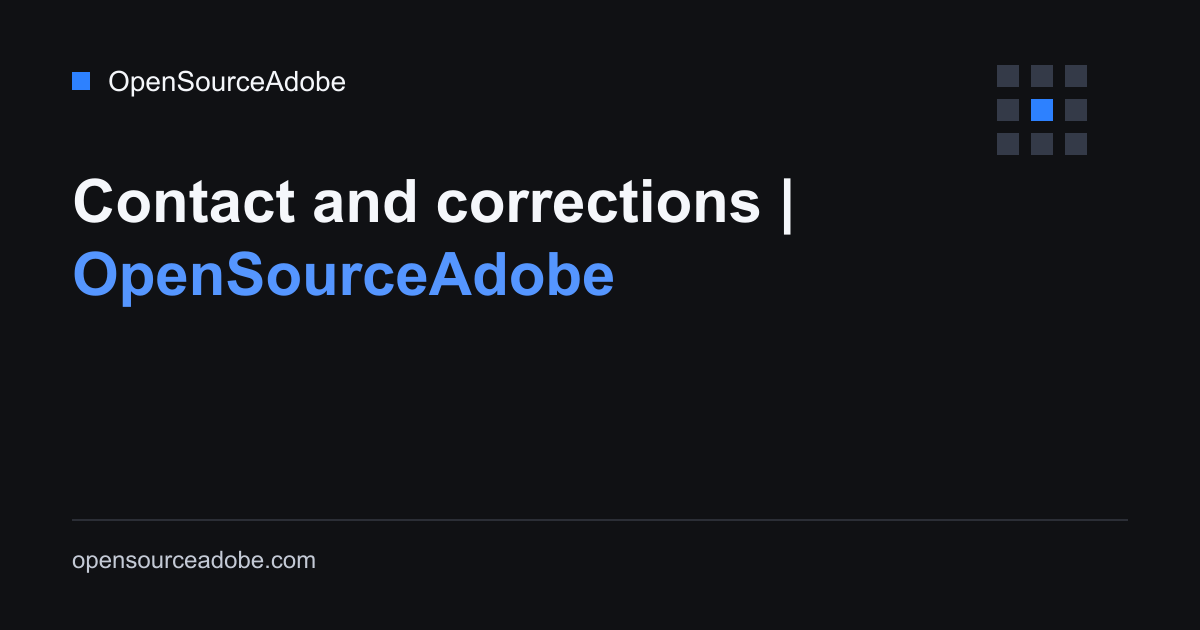
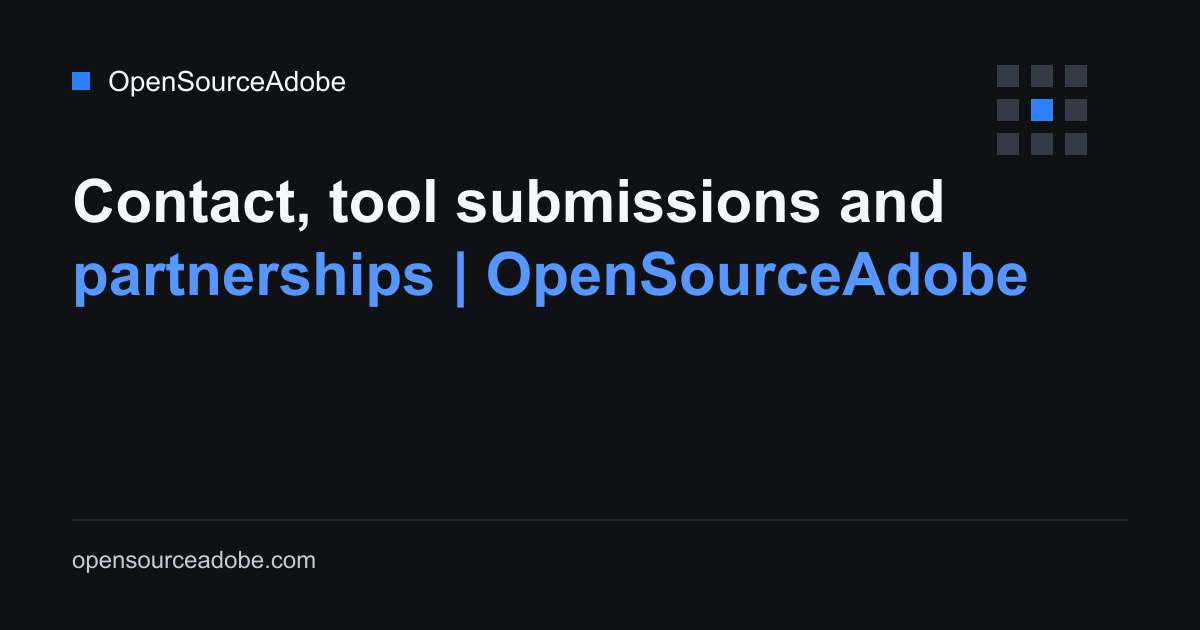
Add business and support contact addresses with tool submission template

Changed region(s): [[0.0617, 0.3921, 0.8633, 0.4825], [0.2467, 0.2714, 0.8017, 0.3619]]

diff --git a/src/app/(en)/contact/page.tsx b/src/app/(en)/contact/page.tsx
@@ -1,14 +1,16 @@
 import { PageUpdated } from "@/components/page-updated";
 import type { Metadata } from "next";
 import { Breadcrumbs } from "@/components/breadcrumbs";
+import { ContactEmailLink } from "@/components/contact-email-link";
 import { EditorialSourceNote } from "@/components/editorial-source-note";
 import { Eyebrow } from "@/components/eyebrow";
+import { contactLinks, toolSubmissionTemplate } from "@/content/contact";
 import { pageMetadata } from "@/lib/metadata";
 import { siteConfig } from "@/lib/site";
 
 export const metadata: Metadata = pageMetadata({
-  title: "Contact and corrections",
-  description: "Email OpenSourceAdobe to report a correction, suggest a primary source, ask an attribution question or share feedback about the site.",
+  title: "Contact, tool submissions and partnerships",
+  description: "Submit a creative tool for consideration, discuss sponsorships and partnerships, or contact OpenSourceAdobe for website support and corrections.",
   path: "/contact/",
 });
 
@@ -17,20 +19,41 @@ export default function ContactPage() {
     <div className="container page-shell page-shell--read">
       <Breadcrumbs currentPath="/contact/" items={[{ label: "Home", href: "/" }, { label: "Contact" }]} />
       <header className="page-intro">
-        <Eyebrow>Contact · corrections first</Eyebrow>
-        <h1>Get in touch.<br /><span>Help keep this guide accurate.</span></h1>
-        <p className="lede">Email us with corrections, source suggestions, attribution questions or feedback about the site.</p>
+        <Eyebrow>Contact · tools & partnerships</Eyebrow>
+        <h1>Let’s talk.<br /><span>Tools, ideas and better guides.</span></h1>
+        <p className="lede">Building a creative tool our readers should know about? Submit it for consideration or get in touch about a partnership.</p>
         <p className="updated">Last updated: <PageUpdated path="/contact/" /></p>
       </header>
-      <section className="contact-block">
+      <section className="contact-block" aria-labelledby="business-heading">
         <p className="section-number">01</p>
         <div>
-          <h2>Email</h2>
-          <p>Please include the page URL, the exact statement in question, and a primary source where available.</p>
-          <a className="button" href={`mailto:${siteConfig.contactEmail}`}>{siteConfig.contactEmail}</a>
+          <h2 id="business-heading">Business & partnerships</h2>
+          <p>For sponsorships, sponsored placements and partnerships relevant to creative software, open-source tools and Adobe alternatives.</p>
+          <ContactEmailLink type="business" href={contactLinks.business} className="button">{siteConfig.businessEmail}</ContactEmailLink>
         </div>
       </section>
-      <EditorialSourceNote>This email is for OpenSourceAdobe. For help with an ArtCraft app or an Adobe subscription, contact the relevant project or company directly.</EditorialSourceNote>
+      <section className="contact-block" aria-labelledby="submission-heading">
+        <p className="section-number">02</p>
+        <div>
+          <h2 id="submission-heading">Submit your tool</h2>
+          <p>Tell us what your tool does, who it helps and how readers can try it. Include current pricing and a documentation or demo link.</p>
+          <ContactEmailLink type="tool_submission" href={contactLinks.submission} className="button">Submit a tool by email →</ContactEmailLink>
+          <details className="contact-template">
+            <summary>View the submission template</summary>
+            <pre>{toolSubmissionTemplate}</pre>
+          </details>
+          <p>Submissions are reviewed for relevance and do not guarantee a listing. Sponsored placements are clearly labeled and do not determine editorial verdicts.</p>
+        </div>
+      </section>
+      <section className="contact-block" aria-labelledby="support-heading">
+        <p className="section-number">03</p>
+        <div>
+          <h2 id="support-heading">Website support & corrections</h2>
+          <p>For broken links, factual corrections, attribution questions or problems with this website. Include the affected page and a primary source when possible.</p>
+          <ContactEmailLink type="support" href={contactLinks.support} className="button">{siteConfig.contactEmail}</ContactEmailLink>
+        </div>
+      </section>
+      <EditorialSourceNote>These addresses are for OpenSourceAdobe. For help with an ArtCraft app or an Adobe subscription, contact the relevant project or company directly.</EditorialSourceNote>
     </div>
   );
 }

diff --git a/tests/e2e/contact.spec.ts b/tests/e2e/contact.spec.ts
@@ -1,0 +1,27 @@
+import { test, expect } from './fixtures';
+import AxeBuilder from '@axe-core/playwright';
+
+for (const width of [320, 390, 1280]) test(`contact email template and layout at ${width}px`, async ({page}) => {
+ await page.setViewportSize({width,height:900});
+ await page.goto('/contact/', {waitUntil:'domcontentloaded'});
+ await expect(page.getByRole('heading', {name:'Business & partnerships',exact:true})).toBeVisible();
+ await page.getByText('View the submission template',{exact:true}).click();
+ await expect(page.locator('.contact-template pre')).toBeVisible();
+ expect(await page.evaluate(()=>document.documentElement.scrollWidth<=innerWidth)).toBe(true);
+ await expect(page.locator('#main-content')).not.toContainText('@gmail.com');
+ if(width===1280) {
+  const result=await new AxeBuilder({page}).include('#main-content').analyze();
+  expect(result.violations.filter(v=>['serious','critical'].includes(v.impact??''))).toEqual([]);
+ }
+});
+
+test('email clicks record intent once without sending template content to GA', async ({page}) => {
+ await page.goto('/contact/',{waitUntil:'domcontentloaded'});
+ await page.waitForFunction(()=>Array.isArray((window as Window & {dataLayer?:unknown[]}).dataLayer));
+ await page.evaluate(()=>document.addEventListener('click',event=>{
+  if((event.target as Element).closest('a[href^="mailto:"]'))event.preventDefault();
+ },true));
+ await page.getByRole('link',{name:'Submit a tool by email →',exact:true}).click();
+ const events=await page.evaluate(()=>((window as unknown as {dataLayer?:ArrayLike<unknown>[]}).dataLayer??[]).filter(e=>e[0]==='event'&&e[1]==='contact_email_click').map(e=>Array.from(e)));
+ expect(events).toEqual([['event','contact_email_click',{contact_type:'tool_submission',entry_point:'contact_page'}]]);
+});

diff --git a/tests/e2e/updates.spec.ts b/tests/e2e/updates.spec.ts
@@ -12,11 +12,19 @@ test("updates can be filtered and followed to the dated brief", async ({ page })
   await expect(page.getByRole("heading", { name: "Sources", exact: true })).toBeVisible();
 });
 
-test("Contact uses the email address without a GitHub contact destination", async ({ page }) => {
+test("Contact separates business submissions and website support", async ({ page }) => {
   await page.goto("/contact/");
   const content = page.locator("#main-content");
-  await expect(content.getByRole("link", { name: "makerming1@gmail.com", exact: true })).toHaveAttribute("href", "mailto:makerming1@gmail.com");
-  await expect(content).not.toContainText("GitHub");
+  await expect(content.getByRole("link", { name: "support@opensourceadobe.com", exact: true })).toHaveAttribute("href", /^mailto:support@opensourceadobe\.com\?subject=/);
+  await expect(content.getByRole("link", { name: "business@opensourceadobe.com", exact: true })).toHaveAttribute("href", /^mailto:business@opensourceadobe\.com\?subject=/);
+  await expect(content).not.toContainText("@gmail.com");
+  const submission = content.getByRole('link', {name:'Submit a tool by email →',exact:true});
+  const url = new URL((await submission.getAttribute('href'))!);
+  expect(url.pathname).toBe('business@opensourceadobe.com');
+  expect(url.searchParams.get('body')).toContain('Pricing and free plan:');
+  await content.getByText('View the submission template',{exact:true}).click();
+  await expect(content.locator('.contact-template pre')).toBeVisible();
+  await expect(content.locator('.contact-template pre')).toContainText('Documentation or demo URL:');
   await expect(content.locator('a[href*="github.com"]')).toHaveCount(0);
 });
 

diff --git a/src/content/contact.ts b/src/content/contact.ts
@@ -1,0 +1,29 @@
+import { siteConfig } from '@/lib/site';
+
+export const toolSubmissionTemplate = `Tool name:
+Website URL:
+Your name and role:
+Reply-to email:
+
+What does the tool help people do?
+Which Adobe app or creative workflow does it relate to?
+Who is it for?
+Platforms (Windows / macOS / Linux / web):
+Pricing and free plan:
+Source code and license (if applicable):
+Documentation or demo URL:
+What makes it different?
+
+Request (editorial listing / sponsored placement / other):
+Proposed placement, timing and budget (if applicable):
+Anything else we should know?`;
+
+export function contactMailto(address: string, subject: string, body?: string): string {
+ return `mailto:${address}?subject=${encodeURIComponent(subject)}${body ? `&body=${encodeURIComponent(body)}` : ''}`;
+}
+
+export const contactLinks = {
+ support: contactMailto(siteConfig.contactEmail, 'OpenSourceAdobe — website support or correction', 'Page URL:\nIssue or correction:\nPrimary source (if available):'),
+ business: contactMailto(siteConfig.businessEmail, 'OpenSourceAdobe — business inquiry', 'Your name and company:\nWebsite:\nPartnership idea:\nPreferred timing:\nBudget (if applicable):'),
+ submission: contactMailto(siteConfig.businessEmail, 'OpenSourceAdobe — tool submission', toolSubmissionTemplate),
+};

diff --git a/tests/contact.test.ts b/tests/contact.test.ts
@@ -1,0 +1,17 @@
+import { expect, it } from 'vitest';
+import { contactLinks, toolSubmissionTemplate } from '@/content/contact';
+import { siteConfig } from '@/lib/site';
+
+it('keeps website support and commercial submissions on their domain addresses', () => {
+ expect(siteConfig.contactEmail).toBe('support@opensourceadobe.com');
+ expect(siteConfig.businessEmail).toBe('business@opensourceadobe.com');
+ for (const [key,href] of Object.entries(contactLinks)) {
+  const url = new URL(href);
+  expect(url.protocol).toBe('mailto:');
+  expect(url.pathname).toBe(key === 'support' ? siteConfig.contactEmail : siteConfig.businessEmail);
+  expect(url.searchParams.get('subject')).toBeTruthy();
+  expect(url.searchParams.get('body')).toBeTruthy();
+ }
+ expect(new URL(contactLinks.submission).searchParams.get('body')).toBe(toolSubmissionTemplate);
+ for(const field of ['Website URL:', 'Pricing and free plan:', 'Documentation or demo URL:', 'Request (editorial listing / sponsored placement / other):']) expect(toolSubmissionTemplate).toContain(field);
+});

diff --git a/src/app/globals.css b/src/app/globals.css
@@ -965,3 +965,8 @@ html:is([lang="ja"],[lang="ko"]) :is(h1,h2,h3,p,a,span,small,th,td,summary) { le
 .learning-video__body { display: flex; flex: 1; flex-direction: column; }
 .learning-video__body .learning-tags { margin-top: auto; }
 @media(max-width:700px) { .tutorials-page .page-intro h1 { font-size: 2rem; } }
+
+.contact-template { margin-block: 24px; }
+.contact-template summary { cursor: pointer; font-weight: 650; padding-block: 12px; }
+.contact-template pre { white-space: pre-wrap; overflow-wrap: anywhere; padding: 20px; border: 1px solid var(--line); border-radius: 6px; background: var(--bg-raised); font: .9rem/1.7 var(--font-mono); }
+.contact-block .button { max-width: 100%; overflow-wrap: anywhere; }

diff --git a/src/components/contact-email-link.tsx b/src/components/contact-email-link.tsx
@@ -1,0 +1,15 @@
+'use client';
+
+import { sendGAEvent } from '@next/third-parties/google';
+import type { ReactNode } from 'react';
+
+type ContactType = 'support' | 'business' | 'tool_submission';
+
+export function ContactEmailLink({ href, type, children, className }: {
+ href: string; type: ContactType; children: ReactNode; className?: string;
+}) {
+ return <a href={href} className={className} onClick={() => {
+  // Measure email intent only. Never send the address, subject, body or user text.
+  sendGAEvent('event', 'contact_email_click', { contact_type: type, entry_point: 'contact_page' });
+ }} data-pvuv-event="contact_email_click" data-pvuv-contact-type={type}>{children}</a>;
+}

diff --git a/src/lib/site.ts b/src/lib/site.ts
@@ -7,7 +7,8 @@ export const siteConfig = {
   description:
     "An independent guide to ArtCraft apps, open-source creative tools, and their current Adobe workflow boundaries.",
   github: "https://github.com/MakermingOne",
-  contactEmail: "makerming1@gmail.com",
+  contactEmail: "support@opensourceadobe.com",
+  businessEmail: "business@opensourceadobe.com",
   analyticsId: resolveGoogleAnalyticsId(),
 } as const;
 

diff --git a/src/content/page-dates.ts b/src/content/page-dates.ts
@@ -63,7 +63,7 @@ const editorialDates: Record<string, string> = {
   "/apps/gridcraft/": "2026-11-06",
   "/brandon-thomas/": "2026-10-18",
   "/about/": "2026-10-11",
-  "/contact/": "2026-10-13",
+  "/contact/": "2026-11-06",
   "/disclaimer/": "2026-10-11",
   "/privacy/": "2026-11-03",
   "/alternatives/": "2026-10-26",
